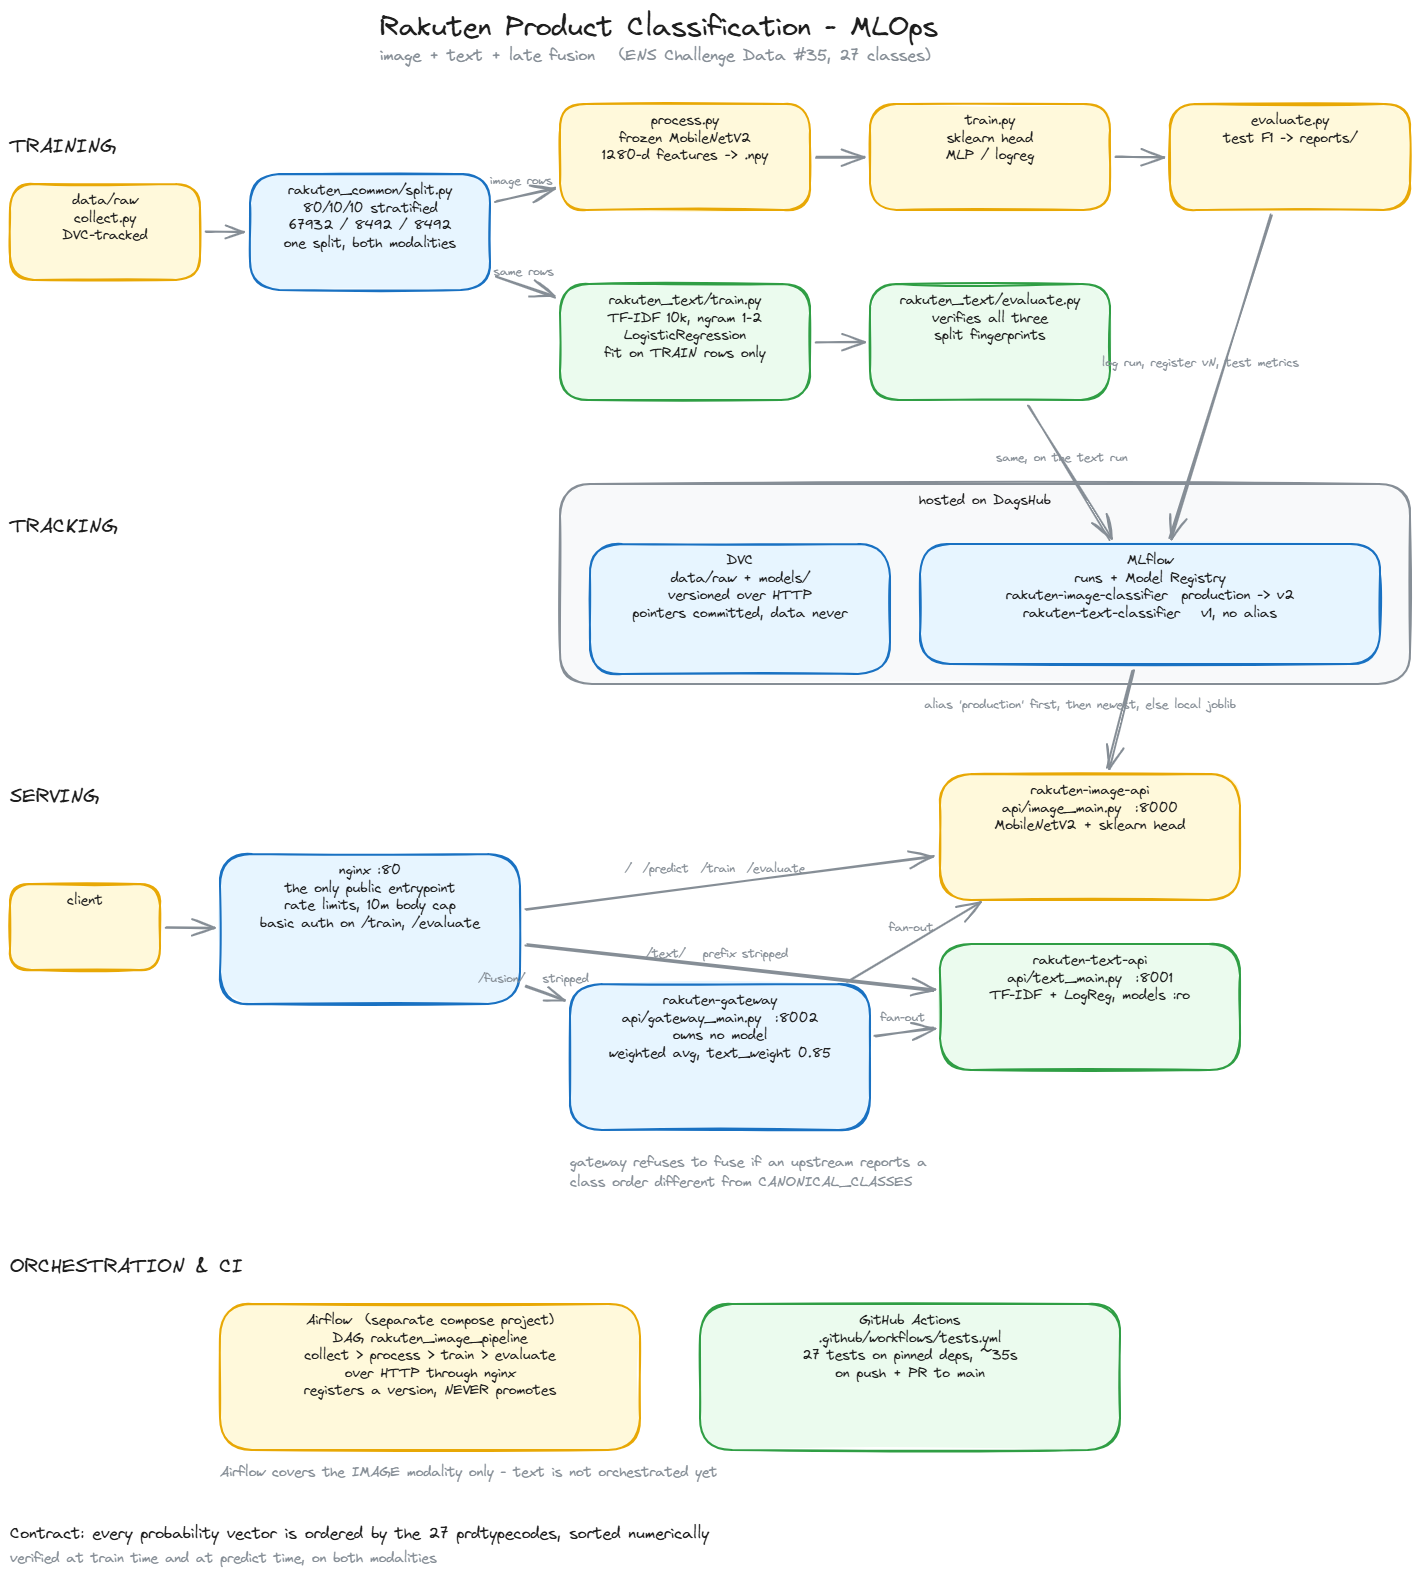
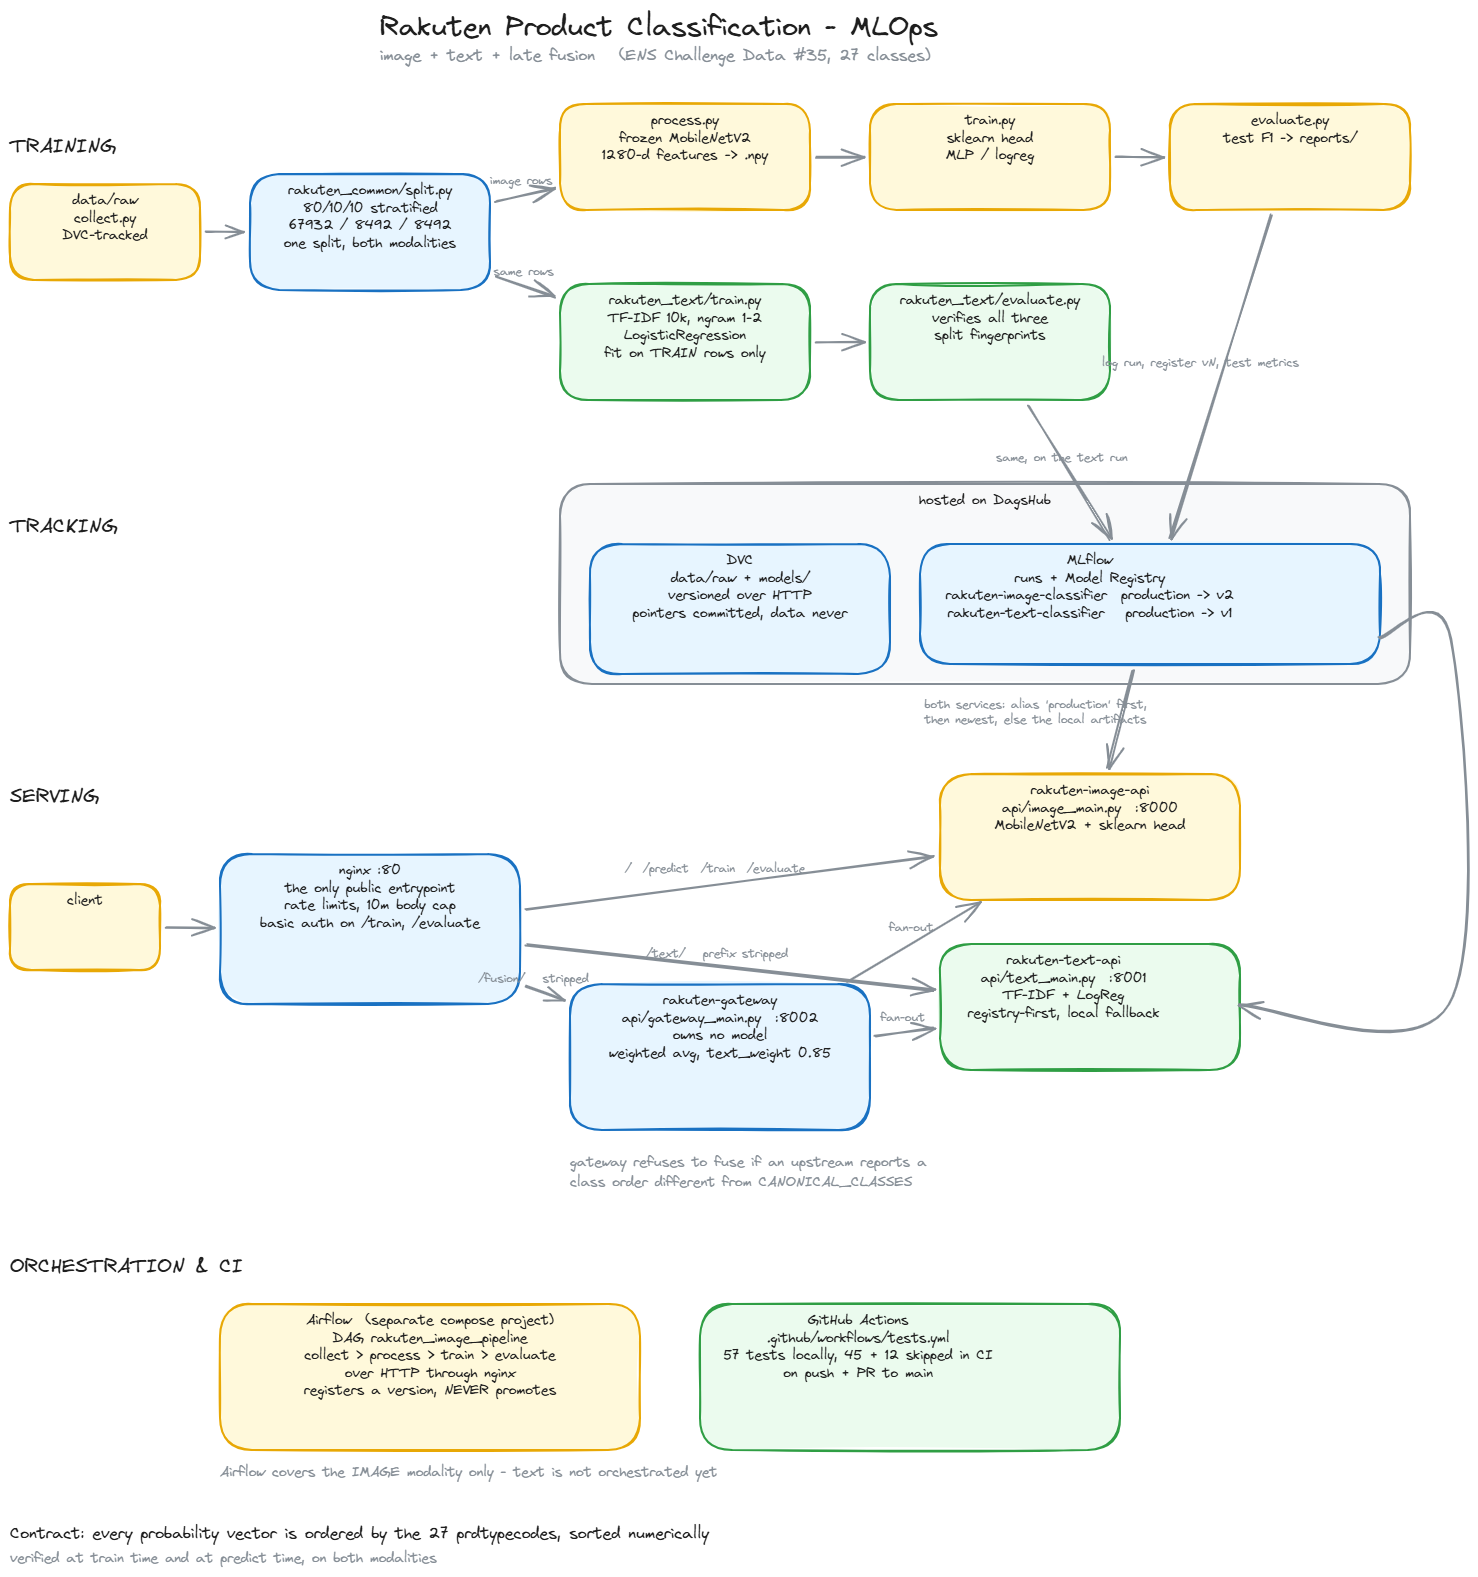
Docs: both services are registry-aware, and the diagram says so

diff --git a/README.md b/README.md
@@ -135,7 +135,7 @@ rakuten-image-mlops/
 ├── nginx/default.conf         # the only public entrypoint
 ├── airflow/dags/              # rakuten_image_pipeline
 ├── .github/workflows/tests.yml
-├── tests/                     # 27 tests, torch-free and data-free
+├── tests/                     # 57 tests, torch-free and data-free
 └── requirements.txt  requirements-ci.txt  Dockerfile  docker-compose*.yml  Makefile
 ```
 
@@ -156,7 +156,7 @@ pip install -r requirements.txt
 Run the tests (need neither torch nor data):
 
 ```bash
-make test             # 27 tests
+make test             # 57 tests
 ```
 
 > **Pins are load-bearing.** `numpy` stays `<2` because torch 2.2.2 requires it,
@@ -243,16 +243,37 @@ other with `degraded=true` plus an `errors` block; if both fail, 502.
 
 ### Model loading order
 
+**Both** serving services follow the same rule, via the shared
+`rakuten_common/registry.py`:
+
 1. **MLflow Model Registry, alias first** — the version carrying the
    `production` alias.
 2. **Newest registered version**, labelled `(unpromoted)`, if no alias resolves.
-3. **Local `models/image_classifier.joblib`** if the registry is unreachable or
-   tracking is unset.
+3. **Local artifacts** if the registry is unreachable or tracking is unset —
+   `models/image_classifier.joblib` for image, `models/text/*.pkl` for text.
+
+`GET /health` reports the outcome as `model_source`, e.g.
+`registry:rakuten-text-classifier@production/v1` for a deliberate promotion,
+`registry:…/v6 (unpromoted)` for a fallback to the newest version, or
+`local:…` when the registry was not reachable. That field — not `model_path` —
+is the answer to "which model is serving?".
+
+The two services differ in *when* they resolve: the text service loads eagerly at
+startup (its artifacts are ~2.7 MB), the image service lazily on first `/predict`
+(torch is expensive to import). Neither consults the registry per request.
 
 Serving never hard-fails on a network problem. **Training never promotes** — the
-`production` alias moves only via `scripts/promote.py`. Because the registry copy
-is cached for the process lifetime, `docker compose restart api` is what picks up
-a newly promoted version.
+`production` alias moves only via `scripts/promote.py`. Because the resolved
+model is cached for the process lifetime, `docker compose restart api` (or
+`text-api`) is what picks up a newly promoted version.
+
+A serving process caps MLflow's HTTP retries (2 retries, 10s timeout) rather than
+using its shipped defaults. Measured: against an unreachable tracking server the
+defaults blocked for **over 170 seconds**, which — with compose's healthcheck and
+the gateway's `depends_on: service_healthy` — would take the whole stack down
+during a DagsHub outage instead of degrading to the local model. With the cap the
+same startup took 10.7s. Raise `MLFLOW_HTTP_REQUEST_MAX_RETRIES` /
+`MLFLOW_HTTP_REQUEST_TIMEOUT` to override.
 
 ---
 
@@ -307,8 +328,9 @@ One account token drives three things:
   payload) and attaches test metrics, the classification report and the confusion
   matrix. One run tells the full story. Both modalities do this.
 - **Model Registry** — two registered models: `rakuten-image-classifier`
-  (`production` → v2, six versions) and `rakuten-text-classifier` (v1, no alias
-  yet). Adding the text model did not move image serving at all.
+  (`production` → v2, six versions) and `rakuten-text-classifier`
+  (`production` → v1). Both are served alias-first; promoting the text model did
+  not move image serving at all.
 - **DVC** — `data/raw` and `models` are tracked and pushed to the DagsHub remote
   over HTTP. Pointer files are committed; the data never is.
 
@@ -335,6 +357,10 @@ Both files are gitignored. Each person uses their own token.
 | `MLFLOW_TRACKING_URI` | – | DagsHub MLflow endpoint; unset = tracking off |
 | `MLFLOW_TRACKING_USERNAME` / `_PASSWORD` | – | DagsHub username / token |
 | `MLFLOW_EXPERIMENT_NAME` | `rakuten-image` | experiment for the image runs |
+| `RAKUTEN_TEXT_REGISTERED_MODEL` | `rakuten-text-classifier` | registry name (text) |
+| `RAKUTEN_TEXT_EXPERIMENT` | `rakuten-text` | experiment for the text runs |
+| `MLFLOW_HTTP_REQUEST_MAX_RETRIES` | `2` when serving | capped so a dead registry cannot hang startup |
+| `MLFLOW_HTTP_REQUEST_TIMEOUT` | `10` when serving | same reason |
 | `ENS_USERNAME` / `ENS_PASSWORD` | – | credentials for `collect.py --from-ens` |
 | `ENS_BASE` | `https://challengedata.ens.fr` | ENS site base URL |
 | `ENS_CHALLENGE_ID` | `35` | ENS challenge number |
@@ -375,8 +401,10 @@ It registers a new model version and **never promotes**.
 
 ## CI
 
-`.github/workflows/tests.yml` runs the 27 tests on every push and pull request to
-`main`, on Python 3.12, in **~35s**.
+`.github/workflows/tests.yml` runs the tests on every push and pull request to
+`main`, on Python 3.12. CI installs `requirements-ci.txt`, which omits mlflow, so
+the tests that need a real registry **skip** there rather than fail: 45 pass and
+12 skip in CI, while all 57 run locally.
 
 CI installs `requirements-ci.txt` — a deliberate **subset** of
 `requirements.txt` that omits mlflow, dagshub, dvc and the API stack, none of
@@ -391,7 +419,8 @@ ever disagree on a version — a subset is only trustworthy if it cannot drift.
 ## Contributing
 
 1. **Branch off `main`**: `git checkout -b your-feature`.
-2. **Run `make test` before opening a PR.** CI runs the same 27 tests.
+2. **Run `make test` before opening a PR.** CI runs the same tests, minus the
+   ones needing mlflow.
 3. **Open a pull request into `main`** and wait for the check to go green.
 4. **Never commit data or secrets.** `data/`, `models/`, `reports/`, `.env`,
    `.dvc/config.local`, `nginx/.htpasswd`, `airflow/.env.airflow` and
@@ -419,6 +448,11 @@ ever disagree on a version — a subset is only trustworthy if it cannot drift.
   contract.
 - **`model_source` reads `not-loaded` until the first `/predict`** (lazy torch
   import), so a freshly restarted image container looks unloaded but is healthy.
+- **nginx keeps a stale backend IP after `docker compose up --build`.** Recreating
+  a service gives it a new IP; nginx resolved the old one at startup and returns
+  **502** until `docker compose restart nginx`. `docker compose restart <service>`
+  reuses the container and its IP, so it does *not* need this. Same family as the
+  bind-mounted-config wart above, different trigger.
 - **Train/eval status is in-memory.** An API restart resets it to `idle`, which
   the DAG's poller treats as an error.
 - **`models.dvc` tracks all of `models/` as one output**, so a text retrain
